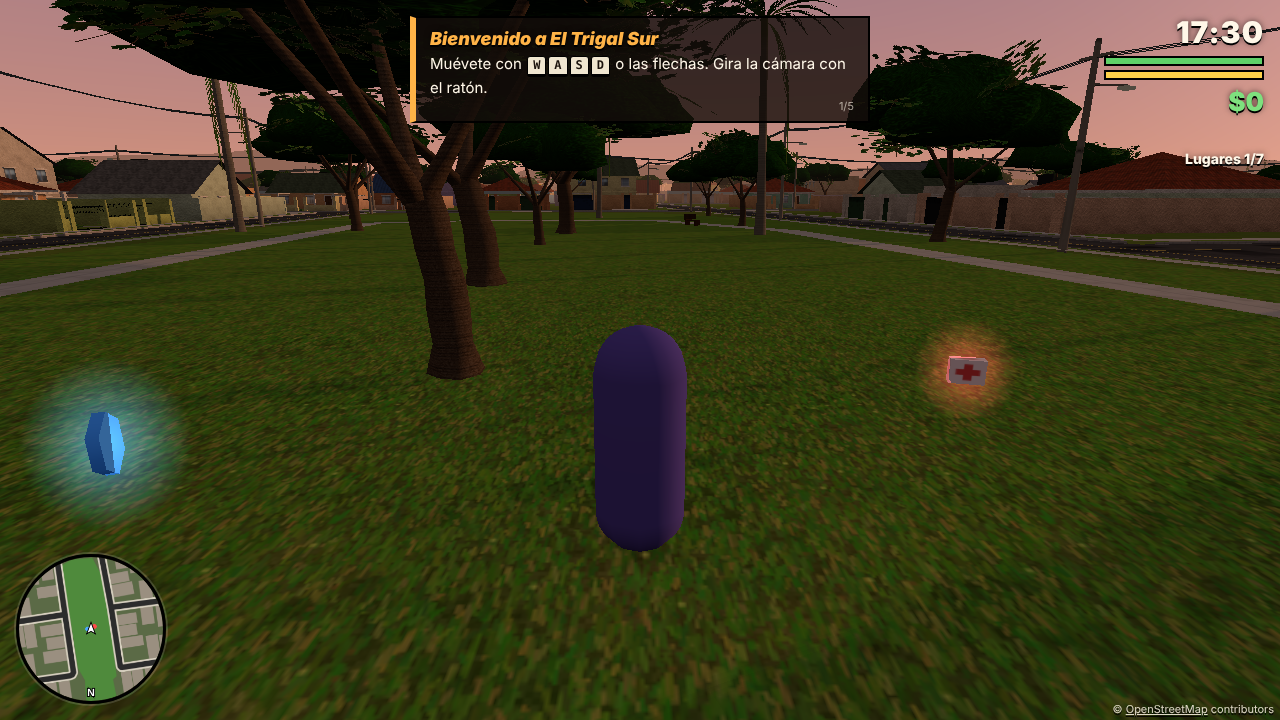
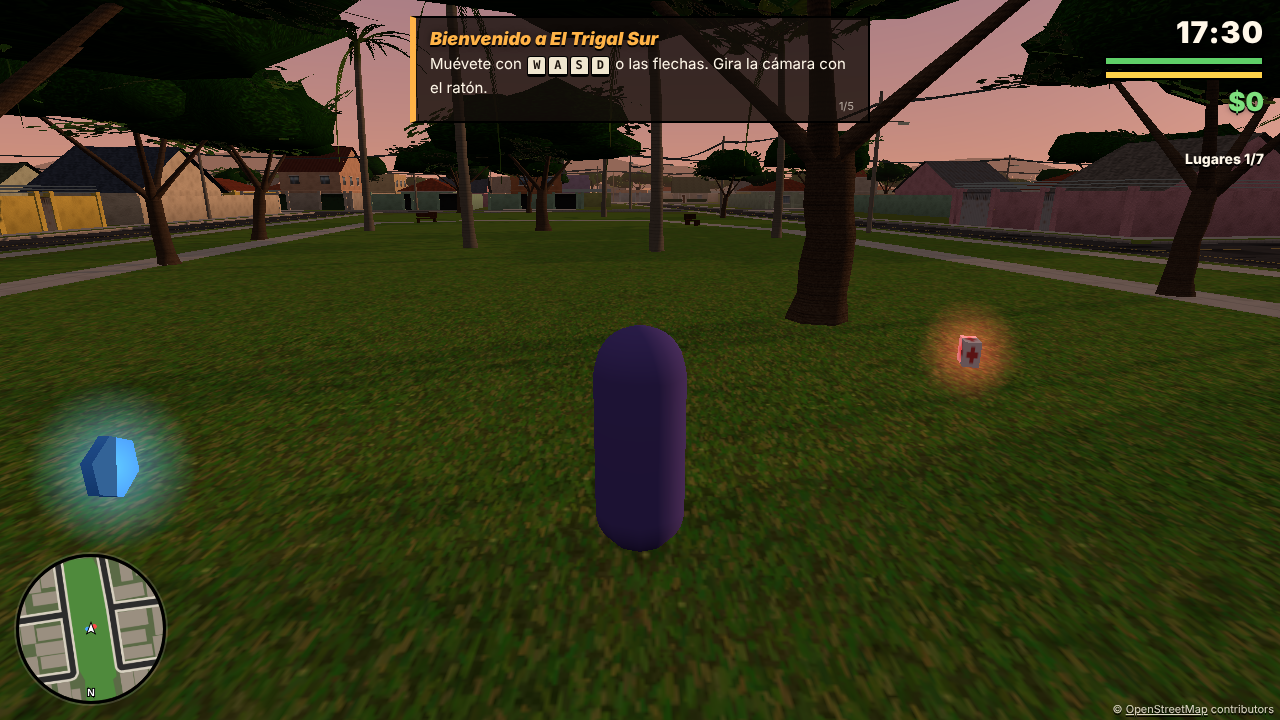
Medidas venezolanas: calzada 7 m, acera 2,5/3,5 m con grama, brocal 30 cm, retiro de frente 6 m
- Lotes de quinta 14–20 m de frente; fondo adaptable a la manzana
- Casas con retiros laterales de 3 m y piso a piso de 3 m

Claude-Session: https://claude.ai/code/session_011RZ5DX6ZnTwYb86YF4Vbvw

Changed region(s): [[0.0, 0.0, 1.0, 0.55], [0.0, 0.4889, 0.1562, 0.9778], [0.7188, 0.4278, 0.8125, 0.5806]]

diff --git a/src/world/buildings.ts b/src/world/buildings.ts
@@ -96,23 +96,30 @@ export function placeLots(map: CityMap, rnd: () => number): Lot[] {
         const a = pts[i]!, b = pts[i + 1]!;
         const seg = Math.hypot(b.x - a.x, b.z - a.z);
         acc += seg;
-        const hw = commercial ? 4 + rnd() * 2.5 : 6 + rnd() * 2;
+        const hw = commercial ? 5 + rnd() * 2 : 7 + rnd() * 3;          // frente: comercio 10–14 m, quinta 14–20 m
         if (acc < hw * 2 + 0.6) continue;
+        // Fondo deseado; si la manzana no da, se prueban fondos más cortos (mín. 9 m)
+        const want = commercial ? 10 + rnd() * 4 : 14 + rnd() * 4;
         const ux = (b.x - a.x) / seg, uz = (b.z - a.z) / seg;
-        // normal izquierda * side apunta hacia el lote; n (frente) apunta a la calle
-        const lx = -uz * side, lz = ux * side;
-        const hd = commercial ? 7 + rnd() * 4 : 10 + rnd() * 4;
+        const lx = -uz * side, lz = ux * side; // normal hacia el lote; n (frente) apunta a la calle
         const mid = { x: (a.x + b.x) / 2 - ux * hw, z: (a.z + b.z) / 2 - uz * hw };
-        const c = { x: mid.x + lx * (setback + hd), z: mid.z + lz * (setback + hd) };
-        // Marco de mano derecha visto desde la calle: u = derecha del observador que mira la fachada
         const n = { x: -lx, z: -lz }, u = { x: n.z, z: -n.x };
-        const corners = rectCorners(c, u, n, hw, hd);
-        const testPts = [...corners, c, ...corners.map((p) => ({ x: (p.x + c.x) / 2, z: (p.z + c.z) / 2 }))];
-        const ok = testPts.every((p) => Math.abs(p.x) < lim.w && Math.abs(p.z) < lim.h && !map.onRoadCorridor(p.x, p.z, 0.2))
-          && !parks.some((pk) => testPts.some((p) => pointInPoly(p.x, p.z, pk.poly)) || pk.poly.some((q) => pointInPoly(q.x, q.z, corners)));
-        if (!ok) { acc = Math.min(acc, hw); continue; }
-        const cells = cellsOf(corners);
-        if (cells.some((k) => occ.has(k))) { acc = Math.min(acc, hw); continue; }
+        let placed: { c: V2; hd: number; corners: V2[]; cells: string[] } | null = null;
+        for (const hd of [want, want * 0.8, 11, 9]) {
+          if (hd > want) continue;
+          const c = { x: mid.x + lx * (setback + hd), z: mid.z + lz * (setback + hd) };
+          const corners = rectCorners(c, u, n, hw, hd);
+          const testPts = [...corners, c, ...corners.map((p) => ({ x: (p.x + c.x) / 2, z: (p.z + c.z) / 2 }))];
+          const ok = testPts.every((p) => Math.abs(p.x) < lim.w && Math.abs(p.z) < lim.h && !map.onRoadCorridor(p.x, p.z, 0.2))
+            && !parks.some((pk) => testPts.some((p) => pointInPoly(p.x, p.z, pk.poly)) || pk.poly.some((q) => pointInPoly(q.x, q.z, corners)));
+          if (!ok) continue;
+          const cells = cellsOf(corners);
+          if (cells.some((k) => occ.has(k))) continue;
+          placed = { c, hd, corners, cells };
+          break;
+        }
+        if (!placed) { acc = Math.min(acc, hw); continue; }
+        const { c, hd, cells } = placed;
         cells.forEach((k) => occ.add(k));
         lots.push({ c, u, n, hw, hd, kind: commercial ? 'comercio' : 'quinta', road });
         acc = 0;
@@ -267,16 +274,18 @@ function buildQuinta(lot: Lot, bank: GeoBank, rnd: () => number, out: BuildingsO
   const wallCol = col(STUCCO[Math.floor(rnd() * STUCCO.length)]!);
   const fenceCol = rnd() < 0.5 ? wallCol.clone() : col(STUCCO[Math.floor(rnd() * STUCCO.length)]!, 0.95);
   const fenceDark = fenceCol.clone().multiplyScalar(0.6);
-  const WH = style === 'muro' ? 2.2 + rnd() * 0.4 : style === 'reja' ? 0.9 : 0;
+  const WH = style === 'muro' ? 2.4 + rnd() * 0.4 : style === 'reja' ? 0.9 : 0;   // muro de lindero 2,4–2,8 m
   const FENCE_TOP = 2.0;
 
   // --- Casa (se decide antes para alinear puerta, caminería y portón) ---
   const floors = rnd() < 0.25 ? 2 : 1;
-  const FH = 2.9;
+  // Medidas: retiro de frente ≥ 6 m (Ordenanza de Zonificación de Valencia), laterales ≥ 3 m, fondo ≥ 3 m;
+  // altura de piso a piso 3,0 m; casa de 10–16 m de fondo.
+  const FH = 3.0;
   const H = floors * FH;
-  const hA = hw - 1.4 - rnd() * 0.8;
-  const bBack = -hd + 2.5 + rnd() * 1.5;
-  const bFront = Math.min(hd - (style === 'muro' ? 6 : 5 + rnd() * 2), bBack + 9 + rnd() * 4);
+  const hA = hw - 3 - rnd() * 0.8;
+  const bFront = hd - (6 + rnd() * 1.5);
+  const bBack = Math.max(-hd + 3, bFront - (10 + rnd() * 6));
   const gateW = 3.2, gateSide = rnd() < 0.5 ? -1 : 1;
   const gA0 = gateSide * (hw - 1.2) - (gateSide > 0 ? gateW : 0);
   const gA1 = gA0 + gateW;
@@ -313,7 +322,7 @@ function buildQuinta(lot: Lot, bank: GeoBank, rnd: () => number, out: BuildingsO
     }
   }
   // Muros laterales y de fondo (siempre; los linderos en Valencia se cierran)
-  const SH = Math.max(2.2, WH);
+  const SH = Math.max(2.4, WH);
   f.wall(stucco, hw, front, hw, -hd, 0, SH, 3, fenceDark, fenceCol);
   f.wall(stucco, -hw, -hd, -hw, front, 0, SH, 3, fenceDark, fenceCol);
   f.wall(stucco, hw, -hd, -hw, -hd, 0, SH, 3, fenceDark, fenceCol);

diff --git a/src/world/roads.ts b/src/world/roads.ts
@@ -63,7 +63,10 @@ export function densify(pts: V2[], max: number): V2[] {
   return out;
 }
 
-export const SIDEWALK_H = 0.15;
+/** Altura del brocal: 30 cm (pedido del usuario). */
+export const SIDEWALK_H = 0.30;
+/** Ancho del canto del brocal. */
+export const CURB_W = 0.15;
 
 /**
  * Construye calzadas, rayado, aceras y brocales.
@@ -90,9 +93,9 @@ export function buildRoads(map: CityMap, bank: GeoBank, rnd: () => number): void
         const inner = offsetPolyline(pts, side * hw);
         const outer = offsetPolyline(pts, side * (hw + road.sidewalk));
         // Todas las aceras: brocal gris (0.15) + franja de grama + losas largas de concreto.
-        const verge = road.kind === 'residential' ? 0.5 : 0.65;
-        const curbTop = offsetPolyline(pts, side * (hw + 0.15));
-        const walkIn = offsetPolyline(pts, side * (hw + 0.15 + verge));
+        const verge = road.sidewalk >= 3.5 ? 1.0 : 0.8; // franja de grama
+        const curbTop = offsetPolyline(pts, side * (hw + CURB_W));
+        const walkIn = offsetPolyline(pts, side * (hw + CURB_W + verge));
         // Tramos de acera que no invaden otra calzada (cruces)
         const keep = (i: number) => {
           const mx = (inner[i]!.x + outer[i + 1]!.x) / 2, mz = (inner[i]!.z + outer[i + 1]!.z) / 2;
@@ -100,9 +103,9 @@ export function buildRoads(map: CityMap, bank: GeoBank, rnd: () => number): void
         };
         const tone = new THREE.Color().setScalar(0.92 + rnd() * 0.1);
         const pair = (a: V2[], b: V2[]) => (side > 0 ? [b, a] : [a, b]) as [V2[], V2[]];
-        ribbon(curbTopB, ...pair(inner, curbTop), SIDEWALK_H, 0.15, 1, WHITE, keep);
+        ribbon(curbTopB, ...pair(inner, curbTop), SIDEWALK_H, CURB_W, 1, WHITE, keep);
         if (verge > 0) ribbon(vergeB, ...pair(curbTop, walkIn), SIDEWALK_H, verge / 4, 4, WHITE, keep);
-        ribbon(walk, ...pair(walkIn, outer), SIDEWALK_H, (road.sidewalk - 0.15 - verge) / 2, 2, tone, keep);
+        ribbon(walk, ...pair(walkIn, outer), SIDEWALK_H, (road.sidewalk - CURB_W - verge) / 1.5, 3, tone, keep); // losas de 1,5 m
         // Brocal: cara vertical del lado de la calzada
         const L = cumLen(inner);
         for (let i = 0; i < inner.length - 1; i++) {

diff --git a/src/map/osm.ts b/src/map/osm.ts
@@ -21,17 +21,20 @@ export interface Road {
 export interface Area { id: string; name: string; kind: string; tags: Record<string, string>; poly: V2[] }
 export interface Poi { id: string; name: string; tags: Record<string, string>; p: V2 }
 
-/** Anchos por tipo de vía (decisión: valores típicos de Valencia). */
+/**
+ * Medidas por tipo de vía (urbanizaciones de quintas en Valencia, Venezuela).
+ * Canal de 3,5 m; calle local de doble sentido 7 m de calzada; acera total 2,5 m en calles y 3,5 m en avenidas.
+ */
+export const LANE = 3.5;
 export function roadProfile(kind: string, oneway: boolean, lanes?: number): { width: number; sidewalk: number } | null {
-  const lane = 3.2;
   switch (kind) {
-    case 'motorway': return { width: (lanes ?? 3) * 3.6, sidewalk: 0 };
-    case 'motorway_link': return { width: (lanes ?? 1) * 3.8 + 1, sidewalk: 0 };
-    case 'trunk': case 'primary': return { width: (lanes ?? (oneway ? 3 : 4)) * lane, sidewalk: 2.5 };
-    case 'secondary': case 'tertiary': return { width: (lanes ?? (oneway ? 2 : 3)) * lane, sidewalk: 2.2 };
-    case 'residential': case 'unclassified': case 'living_street': return { width: oneway ? 5 : 6.5, sidewalk: 1.6 };
-    case 'service': return { width: 4, sidewalk: 0 };
-    default: return null; // footway, path, etc. se tratan aparte
+    case 'motorway': return { width: (lanes ?? 3) * 3.6 + 1.0, sidewalk: 0 };       // + hombrillo
+    case 'motorway_link': return { width: (lanes ?? 1) * 3.6 + 1.5, sidewalk: 0 };
+    case 'trunk': case 'primary': return { width: (lanes ?? (oneway ? 3 : 4)) * LANE, sidewalk: 3.5 };
+    case 'secondary': case 'tertiary': return { width: (lanes ?? (oneway ? 2 : 3)) * LANE, sidewalk: 3.5 };
+    case 'residential': case 'unclassified': case 'living_street': return { width: oneway ? 5.5 : 7.0, sidewalk: 2.5 };
+    case 'service': return { width: 4.5, sidewalk: 0 };
+    default: return null;
   }
 }
 

diff --git a/src/config/index.ts b/src/config/index.ts
@@ -18,7 +18,7 @@ export const CONFIG = {
     accel: 10,
     jumpHeight: 0.8,
     gravity: 18,
-    stepUp: 0.25,
+    stepUp: 0.35,             // sube la acera de 30 cm
   },
   stamina: { max: 100, drain: 12, regen: 18, regenDelay: 1, minToRun: 25 },
   /** Salud y escudo. Daño solo por caídas altas y choques al conducir (sin violencia). */
